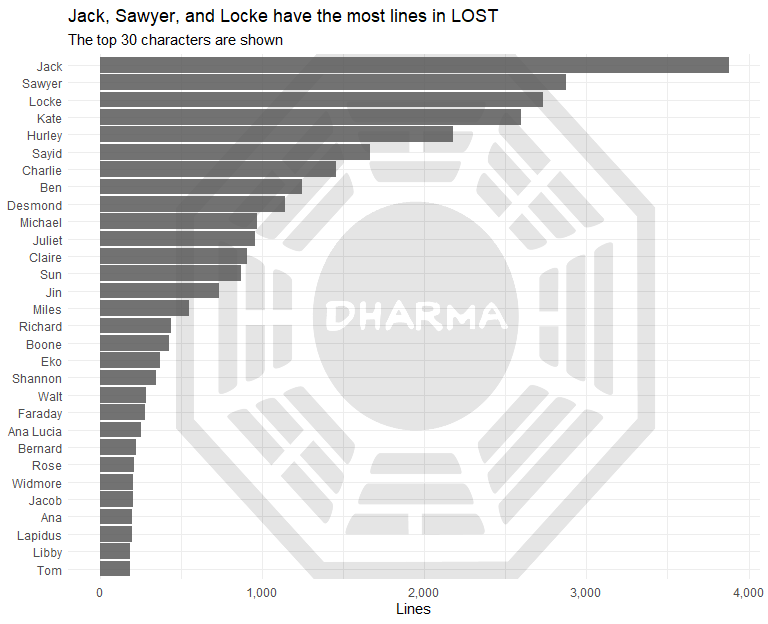
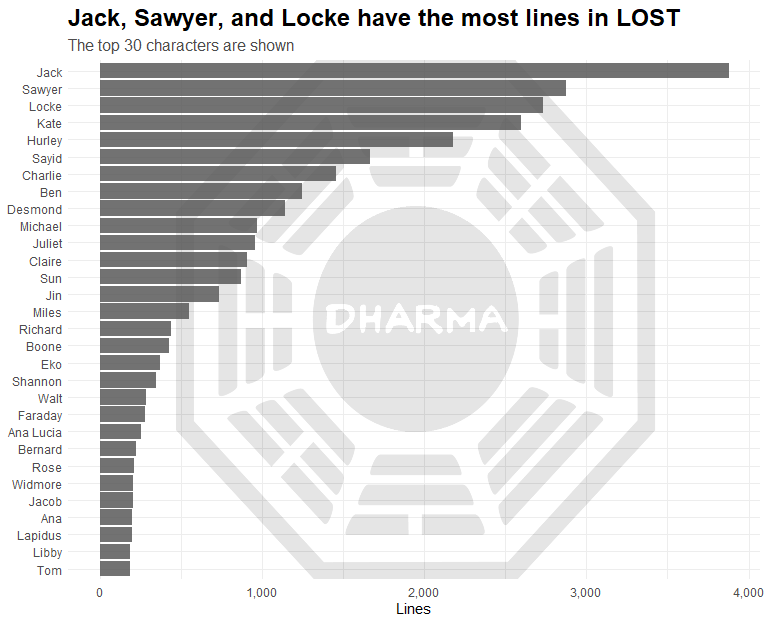
resize plots

diff --git a/README.md b/README.md
@@ -52,7 +52,9 @@ lost %>%
          title = "Jack, Sawyer, and Locke have the most lines in LOST",
          subtitle = glue("The top {top_n} characters are shown")) +
     scale_x_continuous(labels = comma_format()) +
-    theme_minimal()
+    theme_minimal() +
+    theme(plot.title = element_text(size = 18, face = "bold"),
+          plot.subtitle = element_text(size = 12, color = "grey30"))
 ```
 
 ![](README_files/figure-markdown_github/unnamed-chunk-4-1.png)
@@ -136,7 +138,9 @@ lost %>%
     scale_color_manual(values = c("#909090", "#7e7e7e", "#6c6c6c", "#5a5a5a", 
                                   "#484848", "#363636", "#242424", "#121212", "#000000")) +
     theme_minimal() +
-    theme(legend.position = "none")
+    theme(legend.position = "none",
+          plot.title = element_text(size = 18, face = "bold"),
+          plot.subtitle = element_text(size = 12, color = "grey30"))
 ```
 
 ![](README_files/figure-markdown_github/unnamed-chunk-6-1.png)
